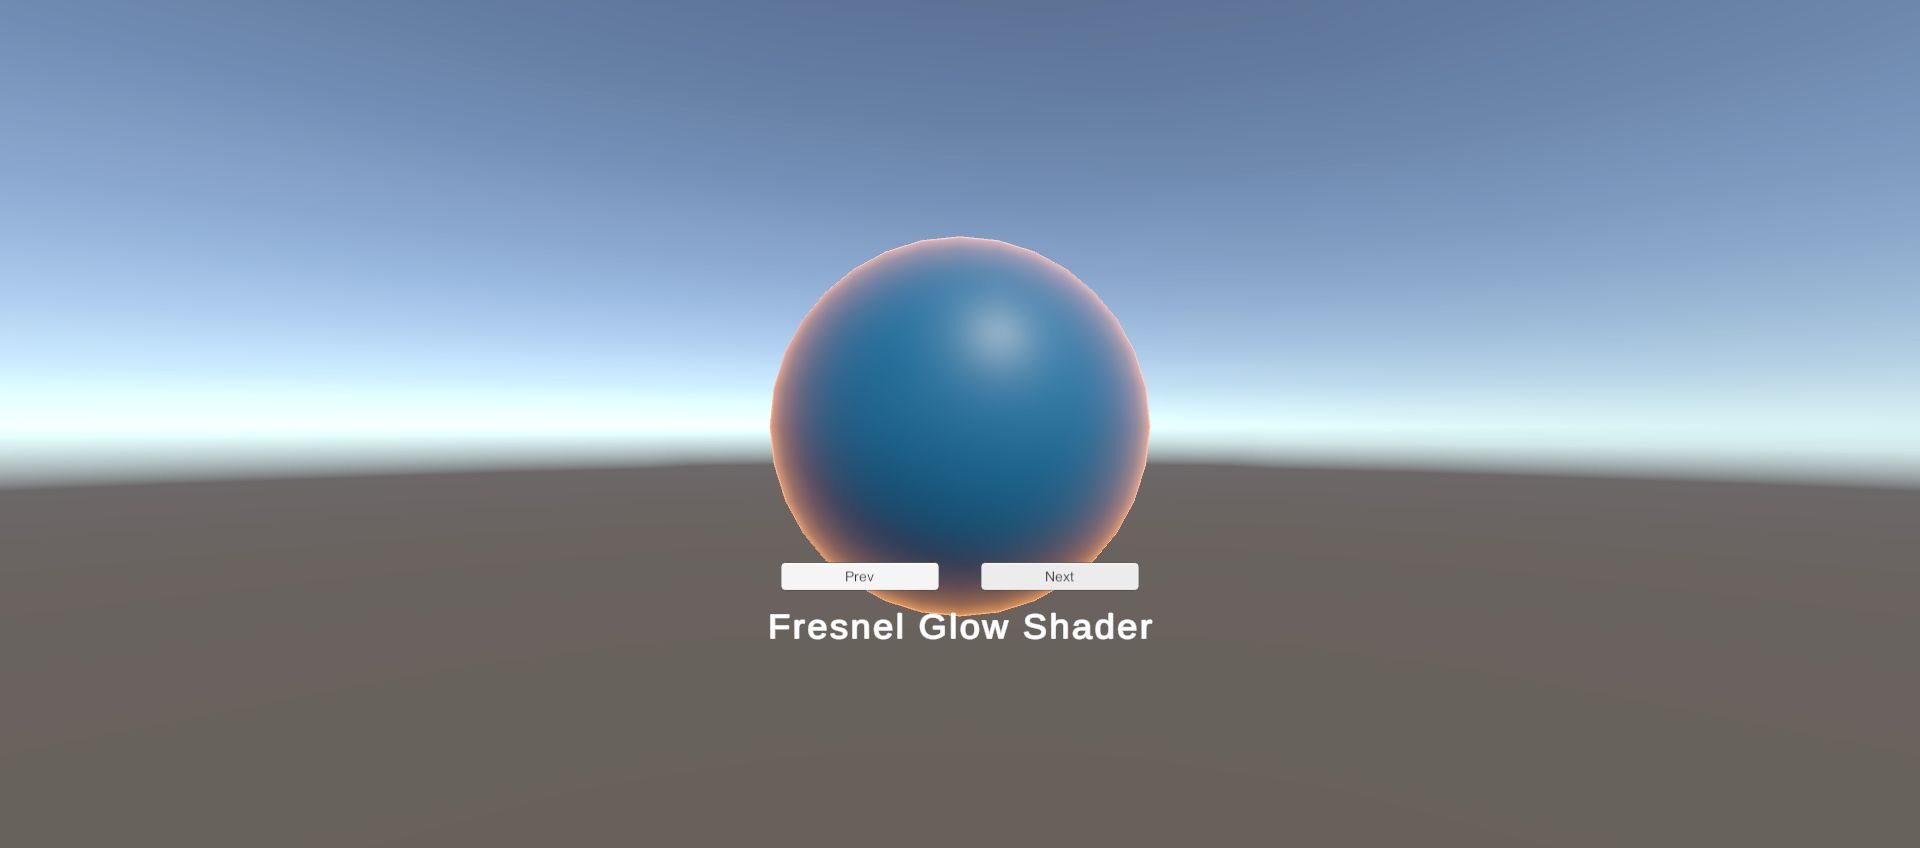
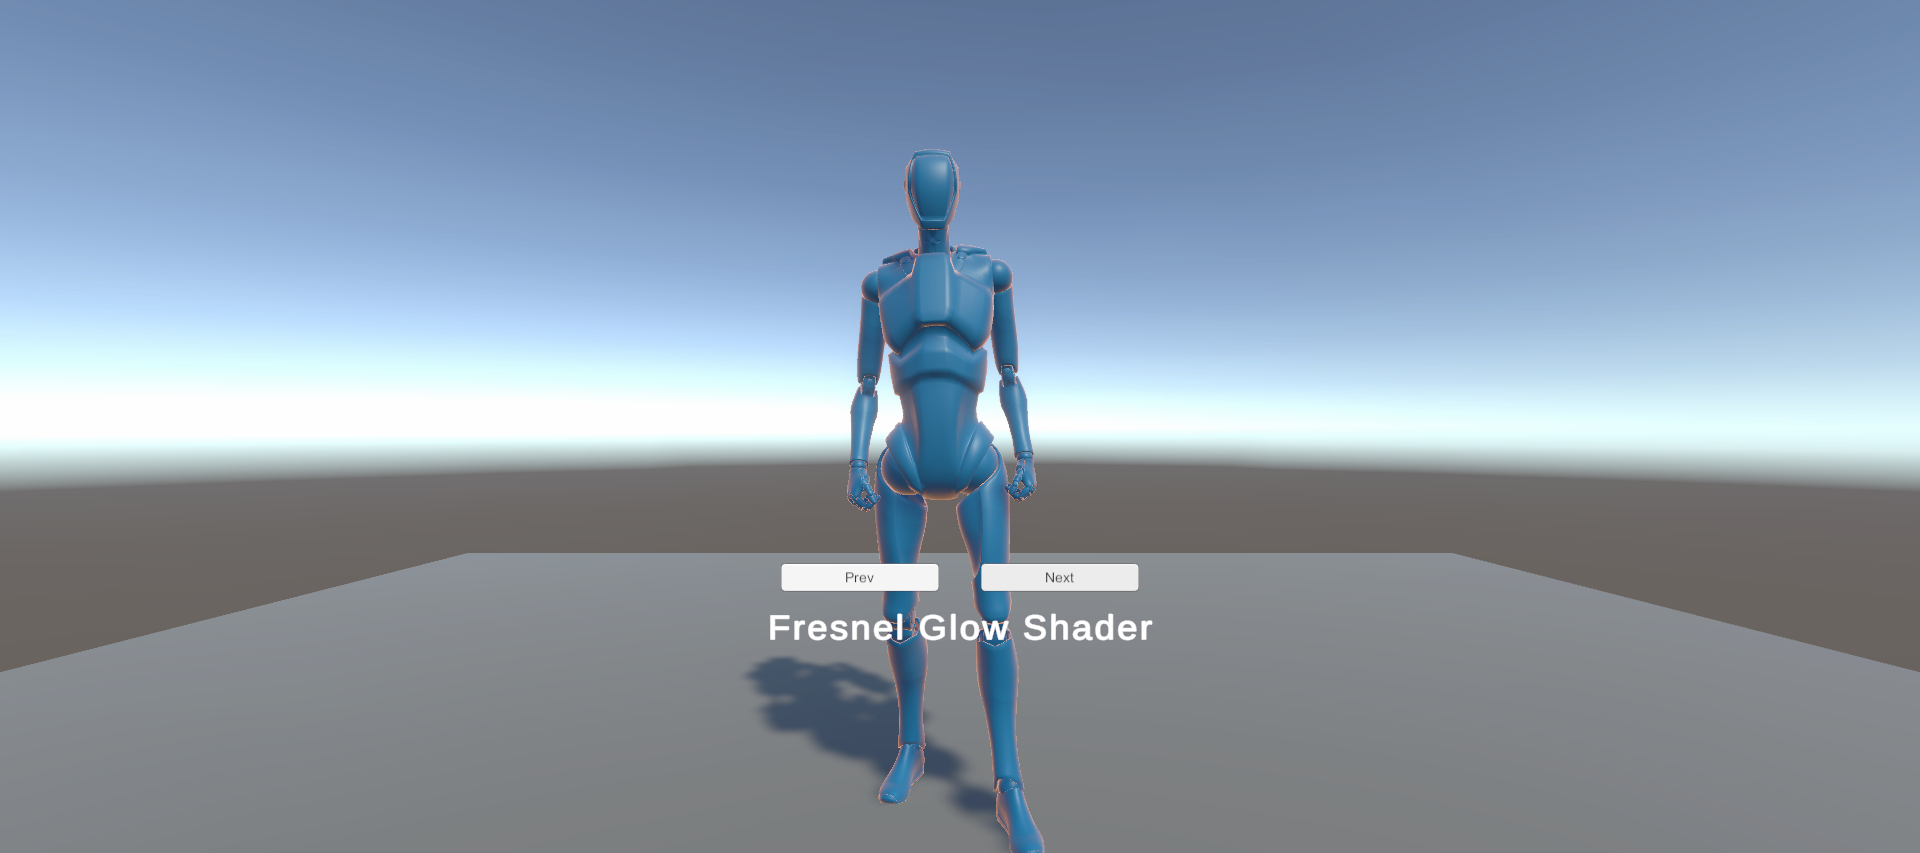
Change Shader Demo pictures, and update content

diff --git a/projects/shader-demo.html b/projects/shader-demo.html
@@ -87,10 +87,16 @@
                     <hr>
                     <p class="intro-text text-center">
                         Released February 2023</br />
-                        Personal Project Showcasing 3D Graphics Engineering and Shader Skills<br />
+                        Personal Project Showcasing 3D Graphics Programming and Shader Skills in HLSL and Unity's Shader Graph<br />
                     </p> 
                     <a href="../assets/img/projects/Shader Demo/Hologram Shader.png">
                         <img class="img-responsive img-border img-left" src="../assets/img/projects/Shader Demo/Hologram Shader.png" alt="">
+                    </a>
+                    <a href="../assets/img/projects/Shader Demo/3D Disolve Shader.png">
+                        <img class="img-responsive img-border img-left" src="../assets/img/projects/Shader Demo/3D Disolve Shader.png" alt="">
+                    </a>
+                    <a href="../assets/img/projects/Shader Demo/2D Disolve Shader.png">
+                        <img class="img-responsive img-border img-left" src="../assets/img/projects/Shader Demo/2D Disolve Shader.png" alt="">
                     </a>
                     <a href="../assets/img/projects/Shader Demo/Force Field Shader.png">
                         <img class="img-responsive img-border img-left" src="../assets/img/projects/Shader Demo/Force Field Shader.png" alt="">
@@ -98,17 +104,17 @@
                     <a href="../assets/img/projects/Shader Demo/Cartoon Water Shader.png">
                         <img class="img-responsive img-border img-left" src="../assets/img/projects/Shader Demo/Cartoon Water Shader.png" alt="">
                     </a>
-                    <a href="../assets/img/projects/Shader Demo/Kite Shader.png">
-                        <img class="img-responsive img-border img-left" src="../assets/img/projects/Shader Demo/Kite Shader.png" alt="">
+                    <a href="../assets/img/projects/Shader Demo/Fresnel Glow Shader.png">
+                        <img class="img-responsive img-border img-left" src="../assets/img/projects/Shader Demo/Fresnel Glow Shader.png" alt="">
                     </a>
                     <a href="../assets/img/projects/Shader Demo/Shimmer Shader.png">
                         <img class="img-responsive img-border img-left" src="../assets/img/projects/Shader Demo/Shimmer Shader.png" alt="">
                     </a>
-                    <a href="../assets/img/projects/Shader Demo/Fresnel Glow Shader.png">
-                        <img class="img-responsive img-border img-left" src="../assets/img/projects/Shader Demo/Fresnel Glow Shader.png" alt="">
-                    </a>
                     <a href="../assets/img/projects/Shader Demo/Gradient Shader.png">
                         <img class="img-responsive img-border img-left" src="../assets/img/projects/Shader Demo/Gradient Shader.png" alt="">
+                    </a>
+                    <a href="../assets/img/projects/Shader Demo/2D Offset Position Shader.png">
+                        <img class="img-responsive img-border img-left" src="../assets/img/projects/Shader Demo/2D Offset Position Shader.png" alt="">
                     </a>
                     <a href="../assets/img/projects/Shader Demo/Texture Subtraction Shader.png">
                         <img class="img-responsive img-border img-left" src="../assets/img/projects/Shader Demo/Texture Subtraction Shader.png" alt="">
@@ -125,24 +131,32 @@
                     <p><strong>Scene features</strong> include:                
                         <ul>
                             <li>Hologram Shader</li>
-                            <li>Force Field Shader</li>
-                            <li>Cartoon Water Shader</li>
-                            <li>Kite Shader</li>
-                            <li>Shimmer Shader</li>
+                            <li>Dissolve Shader with different smoothness values</li>
+                            <li>2D Dissolve Shader with a slider to adjust fade amount</li>
+                            <li>Force Field Shader with different emission colors</li>
+                            <li>Cartoon Water Shader with noise and normal vectors changed</li>
                             <li>Fresnel Glow Shader</li>
+                            <li>Shimmer Shader</li>
                             <li>Gradient Shader</li>
-                            <li>Texture Subtraction Shader</li>
+                            <li>2D Offset Position Shader</li>
+                            <li>Texture Subtraction Shader with different base colors</li>
                         </ul>
                     </p>
 
                     <p><strong>Technologies used:</strong>
                         <ul>
-                            <li>C#</li>
+                            <li>HLSL, C#</li>
                             <li>Unity 2020.3</li>
                             <li>Unity's Universal Render Pipeline 10.4</li>
                             <li>Shader Graph</li>
                         </ul>
                     </p>
+
+                    <p><strong>Assets used:</strong></p>
+                        <ul>
+                            <li><a href="https://storymirror.com/read/english/story/kittu-s-kite/x6qk3v1r">Kittu's Kite</a></li>
+                            <li><a href="https://assetstore.unity.com/packages/essentials/starter-assets-third-person-character-controller-196526">Unity's Third Person Character Controller</a></li>
+                        </ul>
 
                     <a href="https://samsherrod.itch.io/shader-demo" target="_blank" class="btn btn-default btn-lg">View Demo Online</a>
                     <!-- <a href="https://github.com/samsherrod/shader-demo" target="_blank" class="btn btn-default btn-lg">View Source Code</a> -->
